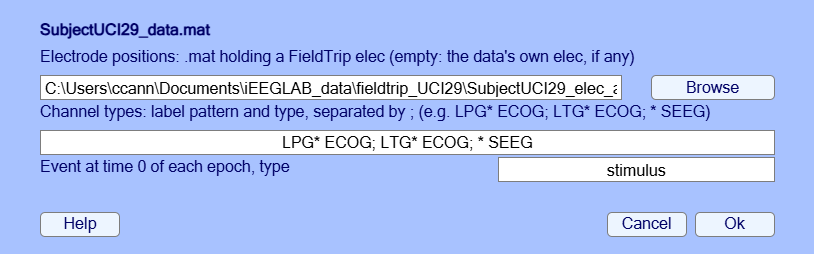
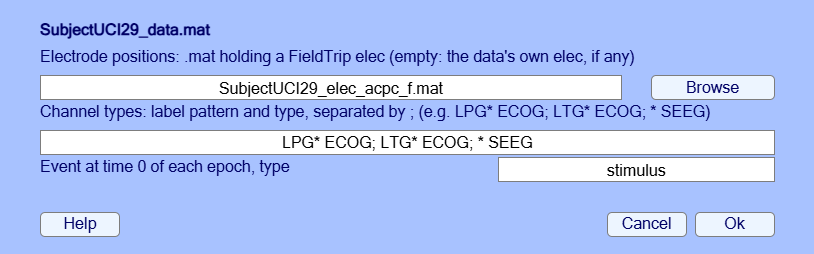
CRP summary title counts the pairs tested, as the connectivity matrix; re-referencing window keeps a command-line 'raw' ICA weighting; Help documentation opens the main branch from a git checkout; tutorial pages: band power on the brain, bipolar counts from all contacts, memory of each pop_newset co

Changed region(s): [[0.0307, 0.3031, 0.7678, 0.3858]]

diff --git a/iEEGLAB_GUI_walkthrough.html b/iEEGLAB_GUI_walkthrough.html
@@ -148,7 +148,7 @@
       <div class="note f">Mac with Apple Silicon: compile the MEF3 reader. Its C files are in the MEF3 plugin folder: in
       MATLAB, go to <code>eeglab/plugins/MEF3v1.2.2</code> and run the five <code>mex</code> lines under
       <a href="https://github.com/MultimodalNeuroimagingLab/matmef#building-from-source">Building from source</a>.
-      With MATLAB R2025b, Apple's Command Line Tools were enough (the README's steps for the full Xcode were not
+      With MATLAB R2025b, Apple's Command Line Tools were enough (matmef's README asks for the full Xcode, which was not
       needed).</div></li>
     <li data-o="Check installation">Start EEGLAB, then <span class="menu">iEEGLAB &gt; Check installation</span>.
       <div class="expect"><b>Expect</b>An iEEGLAB menu right of Help. Nothing required is missing.
@@ -214,7 +214,8 @@ EEG = ieeglab_import(rec);   % or ieeglab_import(rec, 'sites', {'RA2-RA3', 'RA3-
       asks what to do with the result (window <i>Dataset info -- pop_newset()</i>). By default, Ok keeps the result as a new
       dataset, under the name shown, and the previous one in memory (<span class="menu">Datasets</span> menu).
       Tick <i>Overwrite it in memory</i> to replace the previous one instead: with the full recording, each copy takes
-      9 to 16 GB. Tick <i>Save it as file</i> to also write the result to disk.</div>
+      9 to 16 GB (the 20 GB of the note above are for one copy at a time). Tick <i>Save it as file</i> to also
+      write the result to disk.</div>
       <figure class="shot t"><img src="tutorial/images/walkthrough/TA2_load_files.png" alt="Sidecar files" onerror="this.closest('figure').style.display='none'"></figure>
       <figure class="shot t"><img src="tutorial/images/walkthrough/TA2_load_select.png" alt="Channels and events to keep" onerror="this.closest('figure').style.display='none'"></figure>
       <figure class="shot f"><img src="tutorial/images/walkthrough/A2_load_files.png" alt="Sidecar files" onerror="this.closest('figure').style.display='none'"></figure>
@@ -349,11 +350,13 @@ pop_ieeglab_ccep_matrix(EEG, 'explained_var');</code></pre></details></li>
       its harmonics in the median: the line noise was removed. The largest peaks left are on LB3, at 60 Hz (20 times the neighbouring frequencies) and 180 Hz (12 times).</span></div>
       <figure class="shot t"><img src="tutorial/images/walkthrough/TA13_spectrum_1.png" alt="Power spectra" onerror="this.closest('figure').style.display='none'"></figure>
       <figure class="shot f"><img src="tutorial/images/walkthrough/A13_spectrum_1.png" alt="Power spectra" onerror="this.closest('figure').style.display='none'"></figure>
+      <figure class="shot t"><img src="tutorial/images/walkthrough/TA13_spectrum_2.png" alt="70-150 Hz power on the brain" onerror="this.closest('figure').style.display='none'"></figure>
+      <figure class="shot f"><img src="tutorial/images/walkthrough/A13_spectrum_2.png" alt="70-150 Hz power on the brain" onerror="this.closest('figure').style.display='none'"></figure>
       <details class="cmd"><summary>Command line</summary><pre><code>EEG = pop_ieeglab_spectral(EEG, 'type', 'spectrum');</code></pre></details></li>
     <li data-o="Bipolar"><span class="menu">iEEGLAB &gt; iEEG re-referencing</span>: choose <i>Bipolar</i> in <i>Method</i>, keep the default
       (pairs farther apart than twice their lead's spacing are not formed).
       <div class="expect"><b>Expect</b>Each contact minus the next one on its lead, at the midpoint of the two.
-      <span class="t">The 14 contacts become 13 channels, RA1-RA2 to RA13-RA14.</span><span class="f">196 contacts become 157 channels. 21 pairs are not formed: their contacts are 7 to 14 mm apart where their lead's are 3.3 to 4.2 mm (gaps between groups of contacts, e.g. LB5-LB6, RB5-RB6); RO11 and ROP4 have no neighbour.</span> The CCEP results are removed: they describe the
+      <span class="t">The 14 contacts become 13 channels, RA1-RA2 to RA13-RA14.</span><span class="f">The 198 contacts become 157 channels, from the 196 that have a neighbour. 21 pairs are not formed: their contacts are 7 to 14 mm apart where their lead's are 3.3 to 4.2 mm (gaps between groups of contacts, e.g. LB5-LB6, RB5-RB6); RO11 and ROP4 have none.</span> The CCEP results are removed: they describe the
       old channels. A bipolar difference cancels any reference common to its two contacts, so the same channels come from
       the CARLA data as from the preprocessed ones.</div>
       <details class="cmd"><summary>Command line</summary><pre><code>EEG = pop_ieeglab_reref(EEG, 'method', 'bipolar');</code></pre></details></li>
@@ -476,11 +479,13 @@ ieeglab_export(EEG, 'results_ecog');</code></pre></details></li>
       the median: the line noise was removed. <span class="t">The largest peak left is on FB53 at 100 Hz, next to the stimulated FB54.</span><span class="f">No peak above 2.5 times the neighbouring frequencies on any contact.</span></div>
       <figure class="shot t"><img src="tutorial/images/walkthrough/TB11_spectrum_1.png" alt="Power spectra" onerror="this.closest('figure').style.display='none'"></figure>
       <figure class="shot f"><img src="tutorial/images/walkthrough/B11_spectrum_1.png" alt="Power spectra" onerror="this.closest('figure').style.display='none'"></figure>
+      <figure class="shot t"><img src="tutorial/images/walkthrough/TB11_spectrum_2.png" alt="70-150 Hz power on the brain" onerror="this.closest('figure').style.display='none'"></figure>
+      <figure class="shot f"><img src="tutorial/images/walkthrough/B11_spectrum_2.png" alt="70-150 Hz power on the brain" onerror="this.closest('figure').style.display='none'"></figure>
       <details class="cmd"><summary>Command line</summary><pre><code>EEG = pop_ieeglab_spectral(EEG, 'type', 'spectrum');</code></pre></details></li>
     <li data-o="Bipolar"><span class="menu">iEEGLAB &gt; iEEG re-referencing</span>: choose <i>Bipolar</i> in <i>Method</i>, keep the default
       (pairs farther apart than twice their lead's spacing are not formed).
       <div class="expect"><b>Expect</b>Each contact minus the next one on its lead, at the midpoint of the two.
-      <span class="t">17 contacts become 14 channels. FB56-FB57 (79 mm apart) and FB63-FB64 (29 mm) are not formed, as the lead's contacts are 13.4 mm apart: the grid's numbering runs on from one row to the next.</span><span class="f">85 contacts become 71 channels. Ten pairs are not formed, their contacts being more than twice their lead's spacing apart: the ends of grid rows (FC08-FC09, FC16-FC17, FC24-FC25, FC32-FC33, FC40-FC41, FB56-FB57) and wider gaps on other leads (F04-F05, FB63-FB64, vT3-vT4, vT6-vT7).</span> The CCEP results are removed: they describe the
+      <span class="t">The 18 contacts become 14 channels, from the 17 that have a neighbour. FB56-FB57 (79 mm apart) and FB63-FB64 (29 mm) are not formed, as the lead's contacts are 13.4 mm apart: the grid's numbering runs on from one row to the next.</span><span class="f">The 86 contacts become 71 channels, from the 85 that have a neighbour. Ten pairs are not formed, their contacts being more than twice their lead's spacing apart: the ends of grid rows (FC08-FC09, FC16-FC17, FC24-FC25, FC32-FC33, FC40-FC41, FB56-FB57) and wider gaps on other leads (F04-F05, FB63-FB64, vT3-vT4, vT6-vT7).</span> The CCEP results are removed: they describe the
       old channels. A bipolar difference cancels any reference common to its two contacts, so the same channels come from
       the common average data as from the preprocessed ones.</div>
       <details class="cmd"><summary>Command line</summary><pre><code>EEG = pop_ieeglab_reref(EEG, 'method', 'bipolar');</code></pre></details></li>
@@ -735,7 +740,7 @@ S3 = matched_pipeline_ds004696('ds004696', 'ref_compare');     % the paper's set
   stimulation site, the channels whose common average carries no evoked response. This tab applies it through the
   menus to the recording of the paper's Figure 5, with the authors' settings: sub-1 of OpenNeuro ds004977, stereo-EEG at
   4800 Hz, stimulation site RMO8-RMO9. The authors' code puts 154 of 206 channels in the common average there; iEEGLAB
-  chooses the same 154. The tab then compares CARLA with the common average of every channel.</p>
+  chooses the same 154. The tab then compares CARLA with the common average of all 206 good channels.</p>
 
   <h2 id="carla-data">1. Data</h2>
   <p>Run 2 of sub-1, from <a href="https://openneuro.org/datasets/ds004977">ds004977</a> or with the

diff --git a/functions/pop_ieeglab_reref.m b/functions/pop_ieeglab_reref.m
@@ -103,6 +103,7 @@ g = struct('method', iff(isCCEP, 'carla', 'car'), 'timewin', [], 'sensitive', []
     'persite', local_prev(prev, 'car_persite', true), 'fraction', [], 'neighbors', [], ...
     'rank', [], 'p_broad', 0.2, 'weights', 'fieldtrip', 'montage', [], 'spacing_factor', 2);
 W = {'fieldtrip', 'normalized'};                    % ICA weight scalings offered in the dialog
+Wlbl = {'As FieldTrip (the authors'' script)', 'Normalized per component'};
 
 if nargin < 2
     % ---- dialog: one section per method; options of the other methods are greyed out
@@ -116,7 +117,11 @@ if nargin < 2
         g.p_broad = local_prev(prev, 'ica_p_broad', g.p_broad);
         g.weights = local_prev(prev, 'ica_weights', g.weights);
     end
-    iW = find(strcmpi(W, char(g.weights)), 1); if isempty(iW), iW = 1; end
+    iW = find(strcmpi(W, char(g.weights)), 1);
+    if isempty(iW) && strcmpi(char(g.weights), 'raw')   % a command-line choice, kept when it was the last one
+        W{end+1} = 'raw'; Wlbl{end+1} = 'Raw (no scaling)'; iW = numel(W);
+    end
+    if isempty(iW), iW = 1; end
     onFor = @(tag) iff(ismember(tag, M(iSel).uses), 'on', 'off');
     row = @(tag, label, ctrl) {{'style' 'text' 'string' label 'tag' ['lbl_' tag] 'enable' onFor(tag)}, ...
                                [ctrl {'tag' tag 'enable' onFor(tag)}]};
@@ -144,7 +149,7 @@ if nargin < 2
             row('rank', '   Number of components (empty = estimated rank)', {'style' 'edit' 'string' num2str(g.rank)}) ...
             row('p_broad', '   A component is broad (removed) if chi-square p above', {'style' 'edit' 'string' num2str(g.p_broad)}) ...
             row('weights', '   Weights scaled for that test', {'style' 'popupmenu' 'string' ...
-                {'As FieldTrip (the authors'' script)', 'Normalized per component'} 'value' iW})];
+                Wlbl 'value' iW})];
         geom = [geom {1 [1.3 1] [1.3 1] [1.3 1]}];
         gv = [gv 1 1 1 1];
     end

diff --git a/eegplugin_ieeglab.m b/eegplugin_ieeglab.m
@@ -138,10 +138,12 @@ uimenu(m, 'Label', 'README and installation (web)', 'userdata', 'study:on', ...
 % One tutorial page per dataset: the Markdown files of docs/ shipped with the
 % plugin, each titled by its first heading. Each opens on GitHub at the release
 % installed (tag v<version>), so a page renamed later keeps working for this
-% version; a development version opens the main branch. The wiki shows the
-% same pages for the latest version.
+% version; a git checkout (the development version) opens the main branch. The
+% wiki shows the same pages for the latest version.
 ref = 'main';
-if ~isempty(regexp(vers, '^\d+(\.\d+)*$', 'once')), ref = ['v' vers]; end
+if ~isempty(regexp(vers, '^\d+(\.\d+)*$', 'once')) && ~exist(fullfile(plugin_path, '.git'), 'file')
+    ref = ['v' vers];
+end
 pages = dir(fullfile(plugin_path, 'docs', '*.md'));
 pages = pages(~ismember({pages.name}, {'Home.md', '_Sidebar.md'}));
 for k = 1:numel(pages)

diff --git a/tests/test_ieeglab_reref.m b/tests/test_ieeglab_reref.m
@@ -141,6 +141,15 @@ tc.verifyGreaterThan(min(r0), 0.5);
 tc.verifyLessThan(max(r1), 0.2, 'The shared reference signal must be removed.');
 tc.verifyEqual(I.data(8, :), EEG.data(8, :), 'The bad contact must be left untouched.');
 tc.verifyError(@() pop_ieeglab_reref(EEG, 'method', 'carla'), 'pop_ieeglab_reref:notEpoched');
+
+% the ICA options are kept on the dataset for the window; a later run of another method keeps them apart
+[~, I2] = evalc('pop_ieeglab_reref(EEG, ''method'', ''ica'', ''rank'', 7, ''p_broad'', 0.3, ''weights'', ''raw'')');
+tc.verifyEqual(I2.ieeglab.opt.ica_rank, 7);
+tc.verifyEqual(I2.ieeglab.opt.ica_p_broad, 0.3);
+tc.verifyEqual(I2.ieeglab.opt.ica_weights, 'raw');
+tc.verifyEqual(I2.ieeglab.opt.car_method, 'ica');
+[~, C2] = evalc('pop_ieeglab_reref(I2, ''method'', ''car'')');
+tc.verifyEqual(C2.ieeglab.opt.car_method, 'car');
 end
 
 function test_continuous_long_recording_blocks(tc)

diff --git a/functions/ieeglab_stats_subject.m b/functions/ieeglab_stats_subject.m
@@ -538,7 +538,9 @@ else
     ylabel('Significant site-contact pairs','FontWeight','bold');
     box on
 end
-title(sprintf('CRP: %d significant of %d tested (%s, \\alpha=%g)', height(sig), height(T), opt.correct, opt.alpha), ...
+nTested = height(T);
+if ismember('testable', T.Properties.VariableNames), nTested = nnz(T.testable); end   % as the CCEP matrix
+title(sprintf('CRP: %d significant of %d tested (%s, \\alpha=%g)', height(sig), nTested, opt.correct, opt.alpha), ...
     'FontWeight','normal');
 subplot(1,2,2);
 if ismember('explained_var', T.Properties.VariableNames) && any(isfinite(T.explained_var))

diff --git a/CHANGELOG.md b/CHANGELOG.md
@@ -1,5 +1,28 @@
 # Changelog
 
+## Unreleased
+
+### Fixed
+
+- **Time-frequency figure**: each axes gets its colour map before its colour
+  bar (a graphics warning on MATLAB R2024a, Apple Silicon).
+- **CRP summary figure**: its title counts the pairs tested, as the
+  connectivity matrix, without the pairs that cannot reach significance.
+- **Re-referencing window**: after an ICA run with `'weights', 'raw'` (command
+  line only), the window offers that weighting instead of switching to
+  FieldTrip's.
+- **Help > iEEGLAB documentation**: a git checkout opens the pages of the main
+  branch; an installed release, those of its tag.
+
+### Documentation
+
+- The sEEG page and the walkthrough show where each file sits in the BIDS
+  folders, where the pial surfaces are, and what the *pop_newset* window asks
+  (with the memory each copy of the full recording takes).
+- Power spectrum steps show the 70-150 Hz power on the brain; bipolar steps give
+  the contacts before the montage and those that have a neighbour; the README
+  lists the heatmap menu.
+
 ## 1.3.0 (2026-11-16)
 
 ### New
@@ -106,15 +129,15 @@
   per dataset (sEEG and ECoG CCEP, FieldTrip's tutorial data, re-referencing
   compared, and CARLA on ds004977, below), each step with its menu, what to
   expect (for the tutorial extract and the full recording where a page has
-  both) and the command line; only the two CCEP pages have screenshots. A
+  both), the command line and screenshots. A
   workflow copies them to the repository's wiki at each change, for the EEGLAB
   website. The README follows the layout of the other EEGLAB plugin pages, with links to them, a
   quick start and images that also show outside GitHub.
 - **Tutorial page for ds004977** (`docs/5-CARLA-ds004977.md`): CARLA through
   the menus with its authors' settings on the recording of their Figure 5
   (sub-1 run 2, site RMO8-RMO9: the same 154 of 206 channels), the curve of
-  that figure from the command line, and the common average of every channel
-  for comparison.
+  that figure from the command line, and the common average of all good
+  channels for comparison.
 
 ### Changed
 
@@ -185,8 +208,8 @@
 - EEGLAB prints the version at start-up again (`1.3.0`; it printed `v?` for
   `1.3.0-dev`).
 - The re-referencing window shows the ICA options of the previous run on the
-  dataset (number of components, p threshold, scaling of the weights), as it
-  does for the other methods. Help menu entries no longer build their callbacks
+  dataset (number of components, p threshold, scaling of the weights) when
+  that run used ICA. Help menu entries no longer build their callbacks
   from file names, so a page name with a quote or a space cannot break them.
 - A montage multiplies only the contacts it uses, so a NaN in another contact
   stays out of the new channels, and it removes N1 results as well. The heatmap

diff --git a/docs/1-sEEG-CCEP-ds004696.md b/docs/1-sEEG-CCEP-ds004696.md
@@ -39,8 +39,8 @@ ds004696/
     pial.L.surf.gii, pial.R.surf.gii                   the participant's brain surfaces (step 3)
 ```
 
-The tutorial extract keeps the same files, with the `.set` dataset in place of the `.mefd` recording, all in
-`tutorial/seeg`.
+The tutorial extract has the same sidecar files and pial surfaces, with the `.set` dataset in place of the `.mefd`
+recording, all in one folder, `tutorial/seeg`.
 
 > **Note.** The full recording needs about 20 GB of memory, and CARLA takes 6 to 7 minutes. For a quicker run, read
 > only a few stimulation sites at step 1; the numbers then differ a little, also for the sites you keep, as CARLA and
@@ -89,7 +89,8 @@ found automatically; the event type is the stimulation site (for example `RA3-RA
 > **Note.** After this step and most of the next ones (and after the import of the full recording), EEGLAB asks
 > what to do with the result (window *Dataset info -- pop_newset()*). By default, Ok keeps the result as a new
 > dataset, under the name shown, and the previous one in memory (**Datasets** menu). Tick *Overwrite it in memory*
-> to replace the previous one instead: with the full recording, each copy takes 9 to 16 GB. Tick *Save it as file*
+> to replace the previous one instead: with the full recording, each copy takes 9 to 16 GB (the 20 GB of the note
+> above are for one copy at a time). Tick *Save it as file*
 > to also write the result to disk.
 
 > **Expect.**
@@ -343,6 +344,8 @@ EEG = pop_ieeglab_spectral(EEG, 'type', 'timefreq', 'stats', true);   % with the
 
 ![Power spectra](https://raw.githubusercontent.com/sccn/iEEGLAB/main/tutorial/images/walkthrough/TA13_spectrum_1.png)
 
+![70-150 Hz power on the brain](https://raw.githubusercontent.com/sccn/iEEGLAB/main/tutorial/images/walkthrough/TA13_spectrum_2.png)
+
 ```matlab
 EEG = pop_ieeglab_spectral(EEG, 'type', 'spectrum');
 ```
@@ -357,9 +360,9 @@ lead's spacing are not formed).
 > channels come from the CARLA data as from the preprocessed ones.
 >
 > - *Tutorial extract:* The 14 contacts become 13 channels, RA1-RA2 to RA13-RA14.
-> - *Full recording:* 196 contacts become 157 channels. 21 pairs are not formed: their contacts are 7 to 14 mm apart
->   where their lead's are 3.3 to 4.2 mm (gaps between groups of contacts, e.g. LB5-LB6, RB5-RB6); RO11 and ROP4 have
->   no neighbour.
+> - *Full recording:* The 198 contacts become 157 channels, from the 196 that have a neighbour. 21 pairs are not
+>   formed: their contacts are 7 to 14 mm apart where their lead's are 3.3 to 4.2 mm (gaps between groups of
+>   contacts, e.g. LB5-LB6, RB5-RB6); RO11 and ROP4 have none.
 
 ```matlab
 EEG = pop_ieeglab_reref(EEG, 'method', 'bipolar');

diff --git a/docs/2-ECoG-CCEP-ds004080.md b/docs/2-ECoG-CCEP-ds004080.md
@@ -233,6 +233,8 @@ EEG = pop_ieeglab_spectral(EEG, 'type', 'timefreq', 'stats', true);   % with the
 
 ![Power spectra](https://raw.githubusercontent.com/sccn/iEEGLAB/main/tutorial/images/walkthrough/TB11_spectrum_1.png)
 
+![70-150 Hz power on the brain](https://raw.githubusercontent.com/sccn/iEEGLAB/main/tutorial/images/walkthrough/TB11_spectrum_2.png)
+
 ```matlab
 EEG = pop_ieeglab_spectral(EEG, 'type', 'spectrum');
 ```
@@ -246,11 +248,13 @@ lead's spacing are not formed).
 > they describe the old channels. A bipolar difference cancels any reference common to its two contacts, so the same
 > channels come from the common average data as from the preprocessed ones.
 >
-> - *Tutorial extract:* 17 contacts become 14 channels. FB56-FB57 (79 mm apart) and FB63-FB64 (29 mm) are not formed,
->   as the lead's contacts are 13.4 mm apart: the grid's numbering runs on from one row to the next.
-> - *Full recording:* 85 contacts become 71 channels. Ten pairs are not formed, their contacts being more than twice
->   their lead's spacing apart: the ends of grid rows (FC08-FC09, FC16-FC17, FC24-FC25, FC32-FC33, FC40-FC41,
->   FB56-FB57) and wider gaps on other leads (F04-F05, FB63-FB64, vT3-vT4, vT6-vT7).
+> - *Tutorial extract:* The 18 contacts become 14 channels, from the 17 that have a neighbour. FB56-FB57 (79 mm
+>   apart) and FB63-FB64 (29 mm) are not formed, as the lead's contacts are 13.4 mm apart: the grid's numbering runs
+>   on from one row to the next.
+> - *Full recording:* The 86 contacts become 71 channels, from the 85 that have a neighbour. Ten pairs are not
+>   formed, their contacts being more than twice their lead's spacing apart: the ends of grid rows (FC08-FC09,
+>   FC16-FC17, FC24-FC25, FC32-FC33, FC40-FC41, FB56-FB57) and wider gaps on other leads (F04-F05, FB63-FB64,
+>   vT3-vT4, vT6-vT7).
 
 ```matlab
 EEG = pop_ieeglab_reref(EEG, 'method', 'bipolar');

diff --git a/docs/Home.md b/docs/Home.md
@@ -13,7 +13,7 @@ opens, and the same step from the command line.
 | [ECoG: cortico-cortical evoked potentials](2-ECoG-CCEP-ds004080.md) | ds004080 sub-ccepAgeUMCU02: an extract ships with the plugin, or one run from OpenNeuro | The same on fsaverage, with the common average and the N1 |
 | [FieldTrip tutorial data](3-FieldTrip-tutorial-data.md) | FieldTrip's SubjectUCI29 (205 MB download) | FieldTrip epochs, common average of the grids, bipolar depth leads, high-frequency activity tested against baseline, the comparison with FieldTrip |
 | [Re-referencing compared](4-Re-referencing-compared.md) | ds004696 sub-02, full recording | Six re-referencing schemes against the published CRP of this participant |
-| [CARLA on its authors' data](5-CARLA-ds004977.md) | ds004977 sub-1, run 2 (304 MB download) | CARLA with its authors' settings on the recording of their Figure 5, against the common average of every channel |
+| [CARLA on its authors' data](5-CARLA-ds004977.md) | ds004977 sub-1, run 2 (304 MB download) | CARLA with its authors' settings on the recording of their Figure 5, against the common average of all good channels |
 
 Each page also opens from **Help > iEEGLAB documentation** in EEGLAB. The same steps, with a checklist, are in
 `iEEGLAB_GUI_walkthrough.html` in the plugin folder (also in that menu), and the first two tutorials as one script in

diff --git a/README.md b/README.md
@@ -23,6 +23,7 @@ stimulation. Every step runs from the EEGLAB menus or from a script.
 | Stimulation-artifact blanking, line-noise removal, filtering, epoching, trial and channel rejection, baseline | Preprocess iEEG data | `ieeglab_preprocess` |
 | Re-referencing: CARLA (CCEP), common average, lowest-variance subset, ICA-based, bipolar, custom montages (e.g. a local average) | iEEG re-referencing | `pop_ieeglab_reref`, `ieeglab_montage` |
 | Power spectrum of each contact; time-frequency power and band power (high-frequency activity by default), on the brain, with a permutation test of each contact's band power against its baseline | Frequency analysis | `pop_ieeglab_spectral`, `ieeglab_spectral`, `ieeglab_band_stats` |
+| Average of the epochs of every channel, as an image (channels by time) | Plot average of epochs, every channel (heatmap) | `ieeglab_plot_heatmap` |
 | CRP (sEEG) and N1 (ECoG) with permutation statistics; connectivity matrix | CCEP analysis (N1, CRP, connectivity) | `ieeglab_stats_subject` |
 | One site-contact pair (CRP), the connectivity matrix, values on the brain | Plot CRP of one site and contact; Plot connectivity matrix; Plot electrode values on brain | `ieeglab_plot_crp`, `ieeglab_plot_ccep_matrix`, `ieeglab_topoplot` |
 | Export (TSV, JSON, MAT) | Export results | `ieeglab_export` |

diff --git a/docs/5-CARLA-ds004977.md b/docs/5-CARLA-ds004977.md
@@ -4,7 +4,7 @@ CARLA (common average referencing by least anticorrelation; Huang et al., 2024) 
 the channels whose common average carries no evoked response. This page applies it through the iEEGLAB menus to the
 recording of the paper's Figure 5, with the authors' settings: sub-1 of OpenNeuro ds004977, stereo-EEG at 4800 Hz,
 stimulation site RMO8-RMO9. The authors' code puts 154 of 206 channels in the common average there; iEEGLAB chooses the
-same 154. The page then compares CARLA with the common average of every channel.
+same 154. The page then compares CARLA with the common average of all 206 good channels.
 
 Each step gives the menu, what you should get (*Expect*), and the same step from the command line. Install iEEGLAB
 first ([Installation](https://github.com/sccn/iEEGLAB#installation)).
